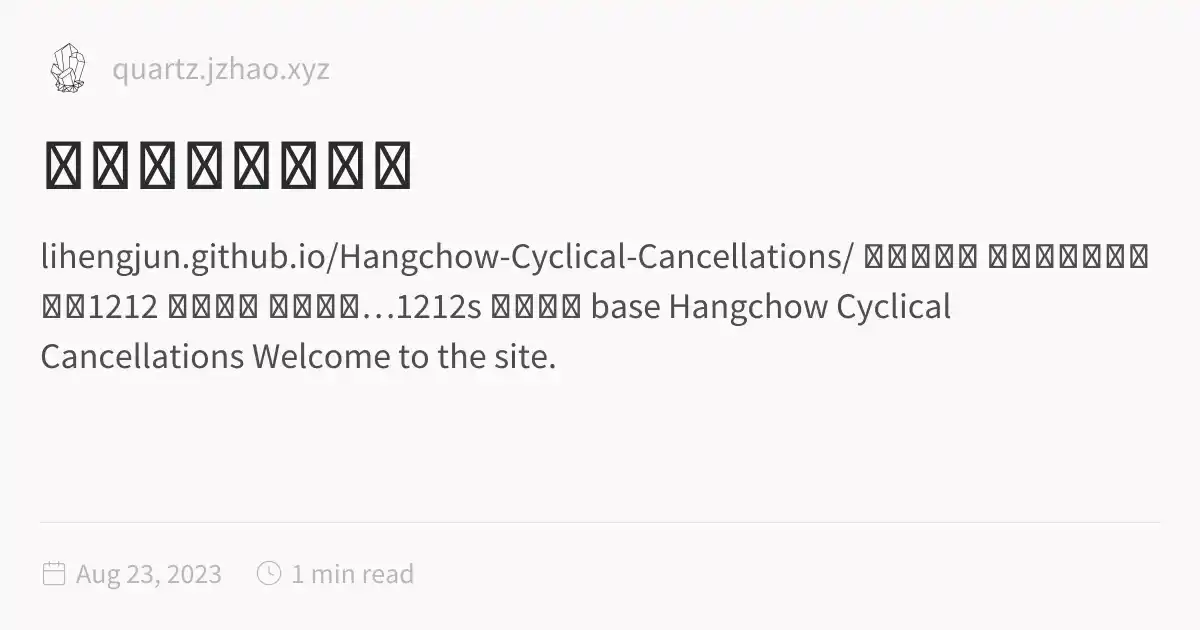
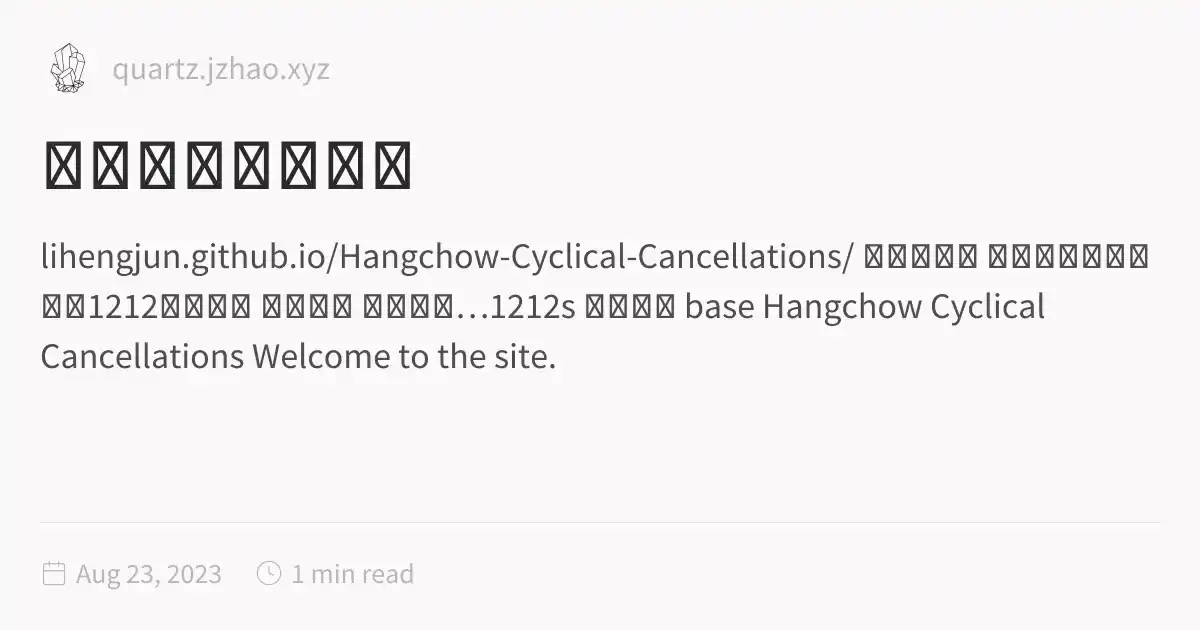
deploy: lihengjun/my-obsidian-vault@554a65dc73db3234c741019ddcbdeedf18bf4b4d

Changed region(s): [[0.1233, 0.4524, 0.8633, 0.5127]]

diff --git a/news/index.html b/news/index.html
@@ -116,6 +116,6 @@ pre:hover > .expand-button {
   padding: 0 12px;
   font-size: 14px;
 }
[2 lines of base64/hex data omitted]
 </script><script type="module">function f(i,e){if(!i)return;function r(o){o.target===this&&(o.preventDefault(),o.stopPropagation(),e())}function t(o){o.key.startsWith("Esc")&&(o.preventDefault(),e())}i?.addEventListener("click",r),window.addCleanup(()=>i?.removeEventListener("click",r)),document.addEventListener("keydown",t),window.addCleanup(()=>document.removeEventListener("keydown",t))}function y(i){for(;i.firstChild;)i.removeChild(i.firstChild)}var h=class{constructor(e,r){this.container=e;this.content=r;this.setupEventListeners(),this.setupNavigationControls(),this.resetTransform()}isDragging=!1;startPan={x:0,y:0};currentPan={x:0,y:0};scale=1;MIN_SCALE=.5;MAX_SCALE=3;cleanups=[];setupEventListeners(){let e=this.onMouseDown.bind(this),r=this.onMouseMove.bind(this),t=this.onMouseUp.bind(this),o=this.resetTransform.bind(this);this.container.addEventListener("mousedown",e),document.addEventListener("mousemove",r),document.addEventListener("mouseup",t),window.addEventListener("resize",o),this.cleanups.push(()=>this.container.removeEventListener("mousedown",e),()=>document.removeEventListener("mousemove",r),()=>document.removeEventListener("mouseup",t),()=>window.removeEventListener("resize",o))}cleanup(){for(let e of this.cleanups)e()}setupNavigationControls(){let e=document.createElement("div");e.className="mermaid-controls";let r=this.createButton("+",()=>this.zoom(.1)),t=this.createButton("-",()=>this.zoom(-.1)),o=this.createButton("Reset",()=>this.resetTransform());e.appendChild(t),e.appendChild(o),e.appendChild(r),this.container.appendChild(e)}createButton(e,r){let t=document.createElement("button");return t.textContent=e,t.className="mermaid-control-button",t.addEventListener("click",r),window.addCleanup(()=>t.removeEventListener("click",r)),t}onMouseDown(e){e.button===0&&(this.isDragging=!0,this.startPan={x:e.clientX-this.currentPan.x,y:e.clientY-this.currentPan.y},this.container.style.cursor="grabbing")}onMouseMove(e){this.isDragging&&(e.preventDefault(),this.currentPan={x:e.clientX-this.startPan.x,y:e.clientY-this.startPan.y},this.updateTransform())}onMouseUp(){this.isDragging=!1,this.container.style.cursor="grab"}zoom(e){let r=Math.min(Math.max(this.scale+e,this.MIN_SCALE),this.MAX_SCALE),t=this.content.getBoundingClientRect(),o=t.width/2,n=t.height/2,c=r-this.scale;this.currentPan.x-=o*c,this.currentPan.y-=n*c,this.scale=r,this.updateTransform()}updateTransform(){this.content.style.transform=`translate(${this.currentPan.x}px, ${this.currentPan.y}px) scale(${this.scale})`}resetTransform(){this.scale=1;let e=this.content.querySelector("svg");this.currentPan={x:e.getBoundingClientRect().width/2,y:e.getBoundingClientRect().height/2},this.updateTransform()}},C=["--secondary","--tertiary","--gray","--light","--lightgray","--highlight","--dark","--darkgray","--codeFont"],E;document.addEventListener("nav",async()=>{let e=document.querySelector(".center").querySelectorAll("code.mermaid");if(e.length===0)return;E||=await import("https://cdnjs.cloudflare.com/ajax/libs/mermaid/11.4.0/mermaid.esm.min.mjs");let r=E.default,t=new WeakMap;for(let n of e)t.set(n,n.innerText);async function o(){for(let s of e){s.removeAttribute("data-processed");let a=t.get(s);a&&(s.innerHTML=a)}let n=C.reduce((s,a)=>(s[a]=window.getComputedStyle(document.documentElement).getPropertyValue(a),s),{}),c=document.documentElement.getAttribute("saved-theme")==="dark";r.initialize({startOnLoad:!1,securityLevel:"loose",theme:c?"dark":"base",themeVariables:{fontFamily:n["--codeFont"],primaryColor:n["--light"],primaryTextColor:n["--darkgray"],primaryBorderColor:n["--tertiary"],lineColor:n["--darkgray"],secondaryColor:n["--secondary"],tertiaryColor:n["--tertiary"],clusterBkg:n["--light"],edgeLabelBackground:n["--highlight"]}}),await r.run({nodes:e})}await o(),document.addEventListener("themechange",o),window.addCleanup(()=>document.removeEventListener("themechange",o));for(let n=0;n<e.length;n++){let v=function(){let g=l.querySelector("#mermaid-space"),m=l.querySelector(".mermaid-content");if(!m)return;y(m);let w=c.querySelector("svg").cloneNode(!0);m.appendChild(w),l.classList.add("active"),g.style.cursor="grab",u=new h(g,m)},M=function(){l.classList.remove("active"),u?.cleanup(),u=null},c=e[n],s=c.parentElement,a=s.querySelector(".clipboard-button"),d=s.querySelector(".expand-button"),p=window.getComputedStyle(a),L=a.offsetWidth+parseFloat(p.marginLeft||"0")+parseFloat(p.marginRight||"0");d.style.right=`calc(${L}px + 0.3rem)`,s.prepend(d);let l=s.querySelector("#mermaid-container");if(!l)return;let u=null;d.addEventListener("click",v),f(l,M),window.addCleanup(()=>{u?.cleanup(),d.removeEventListener("click",v)})}});
 </script><script src="https://cdn.jsdelivr.net/npm/katex@0.16.11/dist/contrib/copy-tex.min.js" type="application/javascript"></script><script src="../postscript.js" type="module"></script></html>

diff --git a/other.html b/other.html
@@ -116,7 +116,7 @@ pre:hover > .expand-button {
   padding: 0 12px;
   font-size: 14px;
 }
[2 lines of base64/hex data omitted]
                 s-3.542,0.634-4.898,1.688l-7.669-7.669C16.785,10.424,17,9.74,17,9c0-2.206-1.794-4-4-4S9,6.794,9,9s1.794,4,4,4
                 c0.74,0,1.424-0.215,2.019-0.567l7.669,7.669C21.634,21.458,21,23.154,21,25s0.634,3.542,1.688,4.897L10.024,42.562
                 C8.958,41.595,7.549,41,6,41c-3.309,0-6,2.691-6,6s2.691,6,6,6s6-2.691,6-6c0-1.035-0.263-2.009-0.726-2.86l12.829-12.829

diff --git a/index.html b/index.html
@@ -1,5 +1,5 @@
 <!DOCTYPE html>
-<html lang="en"><head><title>杭州城幹支戳蓃集</title><meta charset="utf-8"/><link rel="preconnect" href="https://fonts.googleapis.com"/><link rel="preconnect" href="https://fonts.gstatic.com"/><link rel="stylesheet" href="https://fonts.googleapis.com/css2?family=Schibsted Grotesk:wght@400;700&amp;family=Source Sans Pro:ital,wght@0,400;0,600;1,400;1,600&amp;family=IBM Plex Mono:wght@400;600&amp;display=swap"/><link rel="preconnect" href="https://cdnjs.cloudflare.com" crossorigin="anonymous"/><meta name="viewport" content="width=device-width, initial-scale=1.0"/><meta name="og:site_name" content="Quartz 4"/><meta property="og:title" content="杭州城幹支戳蓃集"/><meta property="og:type" content="website"/><meta name="twitter:card" content="summary_large_image"/><meta name="twitter:title" content="杭州城幹支戳蓃集"/><meta name="twitter:description" content="lihengjun.github.io/Hangchow-Cyclical-Cancellations/ 天涯浮生录 哈哈哈哈哈哈哈哈哈1212 内容标题 你的内容…1212s 编辑内容 base Hangchow Cyclical Cancellations Welcome to the site."/><meta property="og:description" content="lihengjun.github.io/Hangchow-Cyclical-Cancellations/ 天涯浮生录 哈哈哈哈哈哈哈哈哈1212 内容标题 你的内容…1212s 编辑内容 base Hangchow Cyclical Cancellations Welcome to the site."/><meta property="og:image:alt" content="lihengjun.github.io/Hangchow-Cyclical-Cancellations/ 天涯浮生录 哈哈哈哈哈哈哈哈哈1212 内容标题 你的内容…1212s 编辑内容 base Hangchow Cyclical Cancellations Welcome to the site."/><meta property="twitter:domain" content="quartz.jzhao.xyz"/><meta property="og:url" content="https://quartz.jzhao.xyz/index"/><meta property="twitter:url" content="https://quartz.jzhao.xyz/index"/><link rel="icon" href="./static/icon.png"/><meta name="description" content="lihengjun.github.io/Hangchow-Cyclical-Cancellations/ 天涯浮生录 哈哈哈哈哈哈哈哈哈1212 内容标题 你的内容…1212s 编辑内容 base Hangchow Cyclical Cancellations Welcome to the site."/><meta name="generator" content="Quartz"/><link href="./index.css" rel="stylesheet" type="text/css" spa-preserve/><style>.expand-button {
+<html lang="en"><head><title>杭州城幹支戳蓃集</title><meta charset="utf-8"/><link rel="preconnect" href="https://fonts.googleapis.com"/><link rel="preconnect" href="https://fonts.gstatic.com"/><link rel="stylesheet" href="https://fonts.googleapis.com/css2?family=Schibsted Grotesk:wght@400;700&amp;family=Source Sans Pro:ital,wght@0,400;0,600;1,400;1,600&amp;family=IBM Plex Mono:wght@400;600&amp;display=swap"/><link rel="preconnect" href="https://cdnjs.cloudflare.com" crossorigin="anonymous"/><meta name="viewport" content="width=device-width, initial-scale=1.0"/><meta name="og:site_name" content="Quartz 4"/><meta property="og:title" content="杭州城幹支戳蓃集"/><meta property="og:type" content="website"/><meta name="twitter:card" content="summary_large_image"/><meta name="twitter:title" content="杭州城幹支戳蓃集"/><meta name="twitter:description" content="lihengjun.github.io/Hangchow-Cyclical-Cancellations/ 天涯浮生录 哈哈哈哈哈哈哈哈哈1212手机编辑 内容标题 你的内容…1212s 编辑内容 base Hangchow Cyclical Cancellations Welcome to the site."/><meta property="og:description" content="lihengjun.github.io/Hangchow-Cyclical-Cancellations/ 天涯浮生录 哈哈哈哈哈哈哈哈哈1212手机编辑 内容标题 你的内容…1212s 编辑内容 base Hangchow Cyclical Cancellations Welcome to the site."/><meta property="og:image:alt" content="lihengjun.github.io/Hangchow-Cyclical-Cancellations/ 天涯浮生录 哈哈哈哈哈哈哈哈哈1212手机编辑 内容标题 你的内容…1212s 编辑内容 base Hangchow Cyclical Cancellations Welcome to the site."/><meta property="twitter:domain" content="quartz.jzhao.xyz"/><meta property="og:url" content="https://quartz.jzhao.xyz/index"/><meta property="twitter:url" content="https://quartz.jzhao.xyz/index"/><link rel="icon" href="./static/icon.png"/><meta name="description" content="lihengjun.github.io/Hangchow-Cyclical-Cancellations/ 天涯浮生录 哈哈哈哈哈哈哈哈哈1212手机编辑 内容标题 你的内容…1212s 编辑内容 base Hangchow Cyclical Cancellations Welcome to the site."/><meta name="generator" content="Quartz"/><link href="./index.css" rel="stylesheet" type="text/css" spa-preserve/><style>.expand-button {
   position: absolute;
   display: flex;
   float: right;
@@ -118,7 +118,7 @@ pre:hover > .expand-button {
 }
[1 lines of base64/hex data omitted]
 <p>天涯浮生录</p>
-<p>哈哈哈哈哈哈哈哈哈1212</p>
+<p>哈哈哈哈哈哈哈哈哈1212手机编辑</p>
 <h1 id="内容标题">内容标题<a role="anchor" aria-hidden="true" tabindex="-1" data-no-popover="true" href="#内容标题" class="internal"><svg width="18" height="18" viewBox="0 0 24 24" fill="none" stroke="currentColor" stroke-width="2" stroke-linecap="round" stroke-linejoin="round"><path d="M10 13a5 5 0 0 0 7.54.54l3-3a5 5 0 0 0-7.07-7.07l-1.72 1.71"></path><path d="M14 11a5 5 0 0 0-7.54-.54l-3 3a5 5 0 0 0 7.07 7.07l1.71-1.71"></path></svg></a></h1>
 <p>你的内容…1212s</p>
 <p>编辑内容</p>
